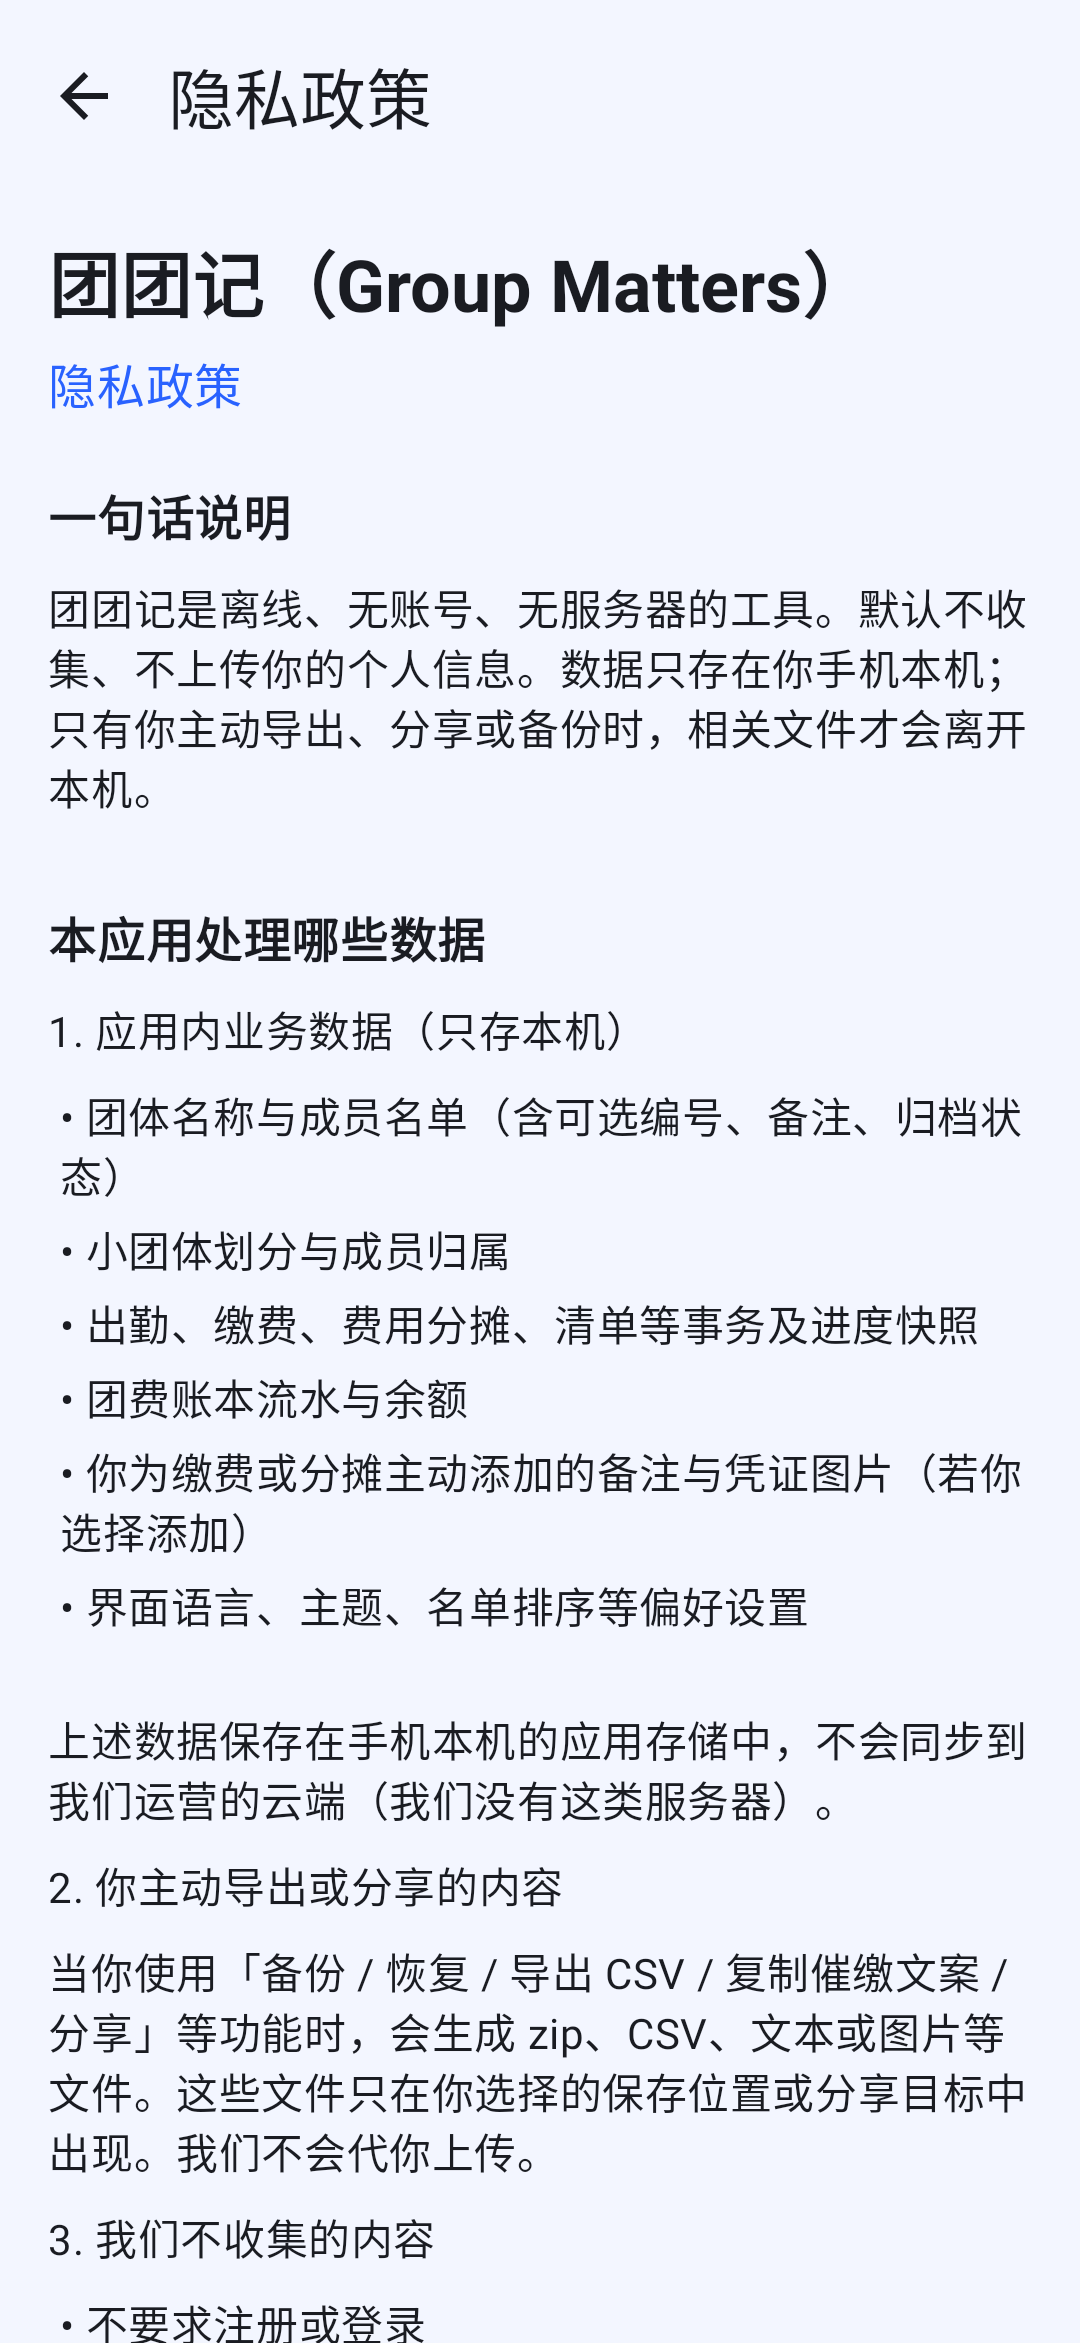
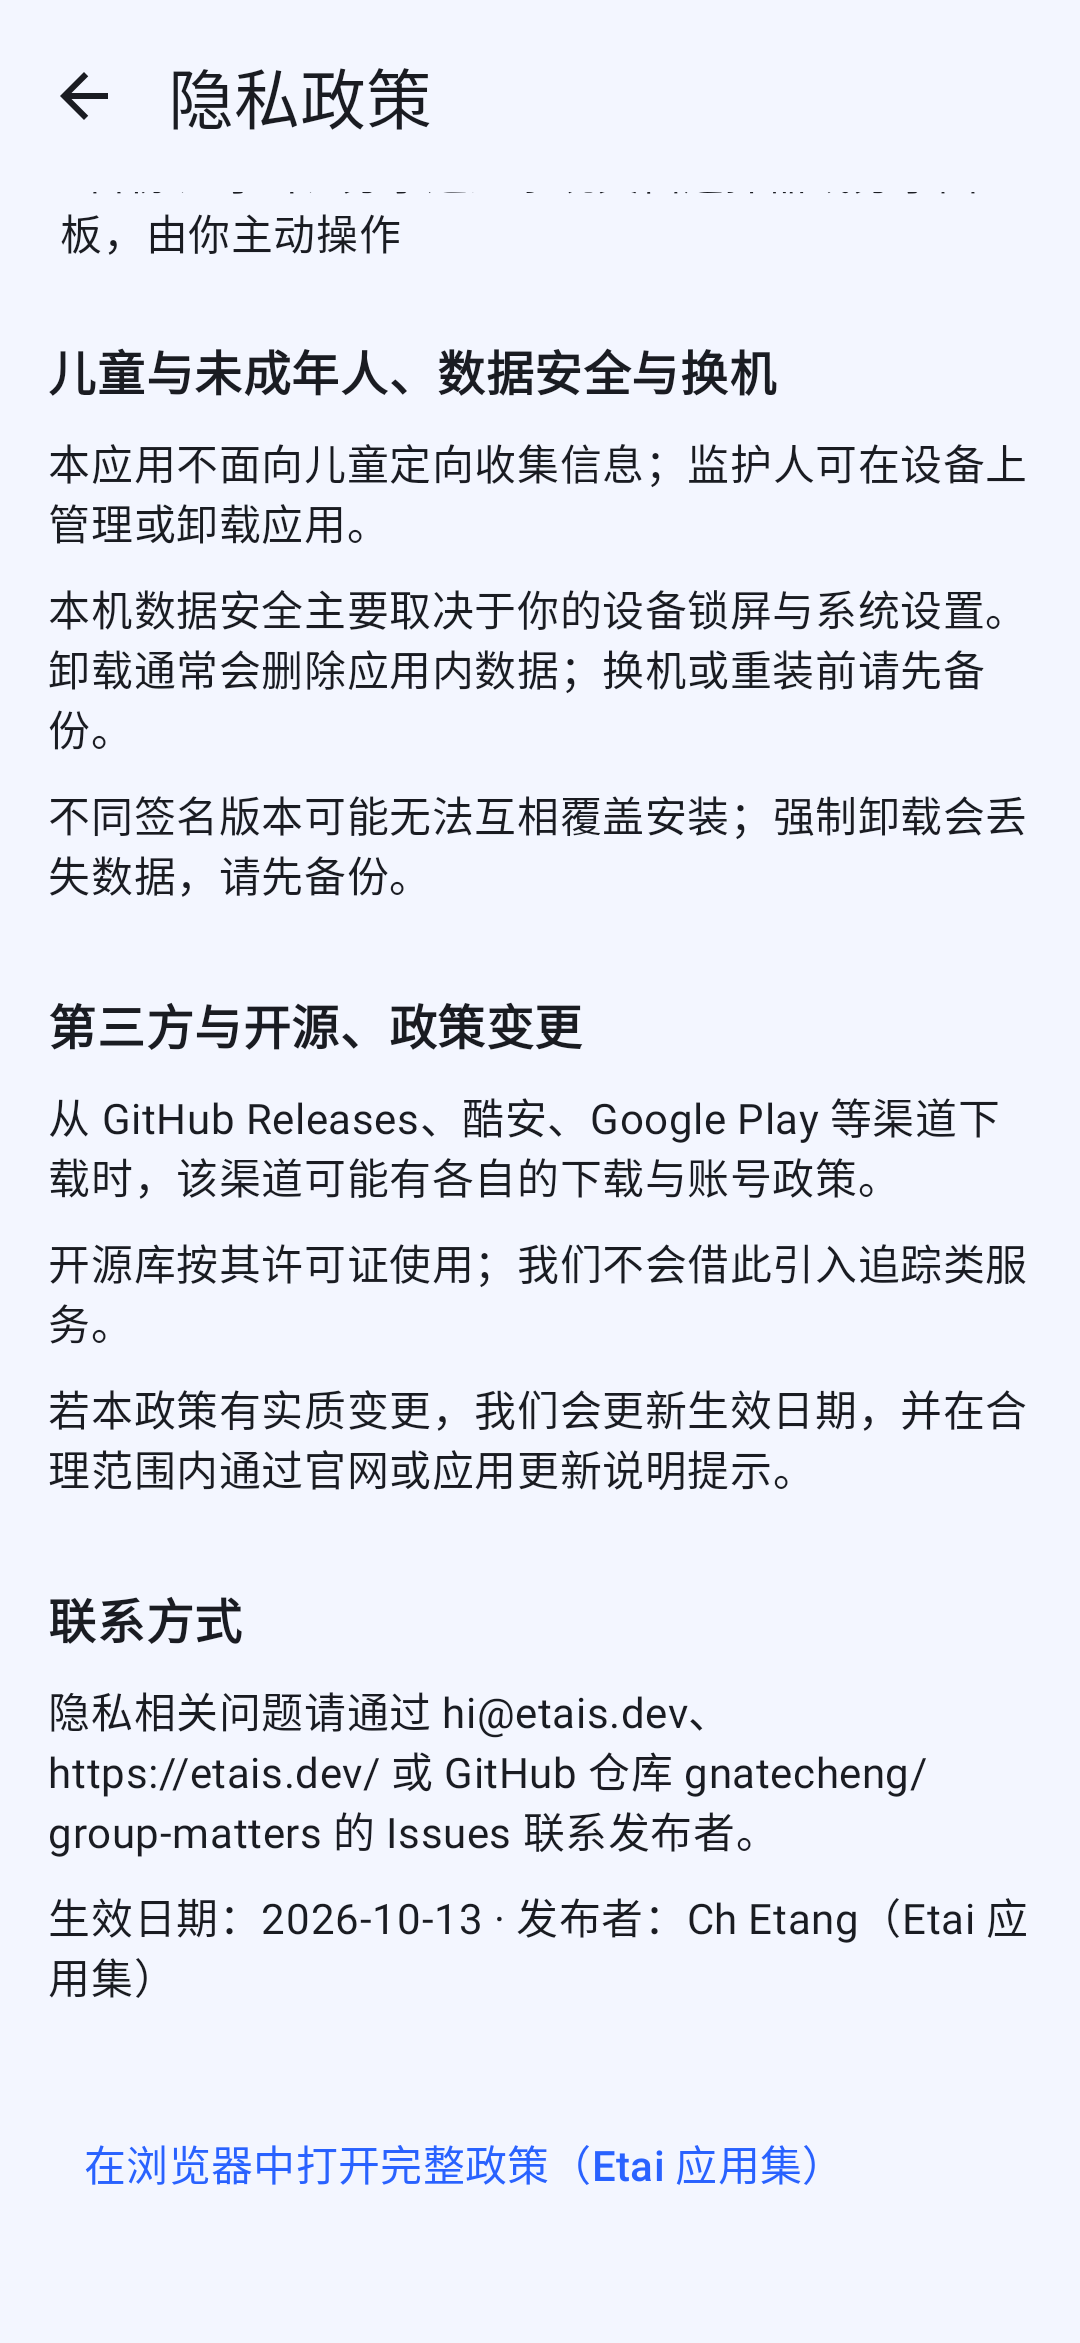
Unify contact email to hi@etais.dev across app and Fastlane
Update privacy policy copy, Settings about card, and store metadata. Scroll
distribution Roborazzi capture to the contact section; refresh zh-light PNG.

Changed region(s): [[0.0306, 0.0935, 0.9472, 1.0], [0.7333, 0.1869, 0.9472, 0.2181]]

diff --git a/app/src/test/java/com/classrecord/app/DistributionScreenshotTest.kt b/app/src/test/java/com/classrecord/app/DistributionScreenshotTest.kt
@@ -4,10 +4,13 @@ import androidx.activity.ComponentActivity
 import androidx.activity.compose.setContent
 import androidx.compose.foundation.layout.Box
 import androidx.compose.foundation.layout.fillMaxSize
+import androidx.compose.foundation.rememberScrollState
 import androidx.compose.runtime.Composable
+import androidx.compose.runtime.LaunchedEffect
 import androidx.compose.runtime.CompositionLocalProvider
 import androidx.compose.ui.Modifier
 import androidx.compose.ui.platform.LocalContext
+import kotlinx.coroutines.delay
 import androidx.lifecycle.Lifecycle
 import androidx.lifecycle.LifecycleOwner
 import androidx.lifecycle.LifecycleRegistry
@@ -91,7 +94,15 @@ class DistributionScreenshotTest {
     private fun capturePrivacyPolicy(english: Boolean, dark: Boolean, fileName: String) {
         prepare(english, dark)
         captureComposable(fileName, dark, screenCapture = false) {
-            PrivacyPolicyScreen(onBack = {})
+            val scrollState = rememberScrollState()
+            LaunchedEffect(Unit) {
+                while (scrollState.maxValue == 0) {
+                    delay(16)
+                }
+                scrollState.scrollTo(scrollState.maxValue)
+                delay(100)
+            }
+            PrivacyPolicyScreen(onBack = {}, scrollState = scrollState)
         }
     }
 
@@ -129,6 +140,9 @@ class DistributionScreenshotTest {
             }
         }
         ShadowLooper.idleMainLooper()
+        repeat(30) {
+            ShadowLooper.idleMainLooper()
+        }
         val file = distributionFile(fileName)
         if (screenCapture) {
             captureScreenRoboImage(file)

diff --git a/app/src/main/java/com/classrecord/app/ui/privacy/PrivacyPolicyScreen.kt b/app/src/main/java/com/classrecord/app/ui/privacy/PrivacyPolicyScreen.kt
@@ -5,6 +5,7 @@ import androidx.compose.foundation.layout.Spacer
 import androidx.compose.foundation.layout.fillMaxSize
 import androidx.compose.foundation.layout.height
 import androidx.compose.foundation.layout.padding
+import androidx.compose.foundation.ScrollState
 import androidx.compose.foundation.rememberScrollState
 import androidx.compose.foundation.verticalScroll
 import androidx.compose.material.icons.Icons
@@ -31,7 +32,10 @@ import com.classrecord.app.i18n.LocaleApplier
 
 @OptIn(ExperimentalMaterial3Api::class)
 @Composable
-fun PrivacyPolicyScreen(onBack: () -> Unit) {
+fun PrivacyPolicyScreen(
+    onBack: () -> Unit,
+    scrollState: ScrollState = rememberScrollState(),
+) {
     val context = LocalContext.current
     val uriHandler = LocalUriHandler.current
     val english = remember {
@@ -62,7 +66,7 @@ fun PrivacyPolicyScreen(onBack: () -> Unit) {
             Modifier
                 .fillMaxSize()
                 .padding(padding)
-                .verticalScroll(rememberScrollState())
+                .verticalScroll(scrollState)
                 .padding(horizontal = 16.dp, vertical = 12.dp),
         ) {
             Text(

diff --git a/app/src/main/java/com/classrecord/app/ui/privacy/PrivacyPolicyBody.kt b/app/src/main/java/com/classrecord/app/ui/privacy/PrivacyPolicyBody.kt
@@ -114,7 +114,7 @@ private fun chineseSections(): List<PrivacySection> = listOf(
     PrivacySection(
         title = "联系方式",
         paragraphs = listOf(
-            "隐私相关问题请通过 https://etais.dev/ 或 GitHub 仓库 gnatecheng/group-matters 的 Issues 联系发布者。",
+            "隐私相关问题请通过 hi@etais.dev、https://etais.dev/ 或 GitHub 仓库 gnatecheng/group-matters 的 Issues 联系发布者。",
             "生效日期：2026-10-13 · 发布者：Ch Etang（Etai 应用集）",
         ),
     ),
@@ -183,7 +183,7 @@ private fun englishSections(): List<PrivacySection> = listOf(
     PrivacySection(
         title = "Contact",
         paragraphs = listOf(
-            "For privacy questions, contact the publisher via https://etais.dev/ or Issues on the group-matters GitHub repository.",
+            "For privacy questions, contact the publisher at hi@etais.dev, https://etais.dev/, or via Issues on the group-matters GitHub repository.",
             "Effective date: 2026-10-13 · Publisher: Ch Etang (Etai Apps)",
         ),
     ),

diff --git a/app/src/main/java/com/classrecord/app/ui/settings/SettingsScreen.kt b/app/src/main/java/com/classrecord/app/ui/settings/SettingsScreen.kt
@@ -480,6 +480,12 @@ fun SettingsScreen(
                         color = MaterialTheme.colorScheme.onSurfaceVariant
                     )
                     Spacer(Modifier.height(8.dp))
+                    Text(stringResource(R.string.settings_about_contact), style = MaterialTheme.typography.titleSmall)
+                    Text(
+                        stringResource(R.string.settings_about_contact_email),
+                        style = MaterialTheme.typography.bodyMedium,
+                    )
+                    Spacer(Modifier.height(8.dp))
                     Text(stringResource(R.string.settings_about_github), style = MaterialTheme.typography.titleSmall)
                     TextButton(onClick = { uriHandler.openUri(githubUrl) }) {
                         Text(stringResource(R.string.settings_about_open_github))
